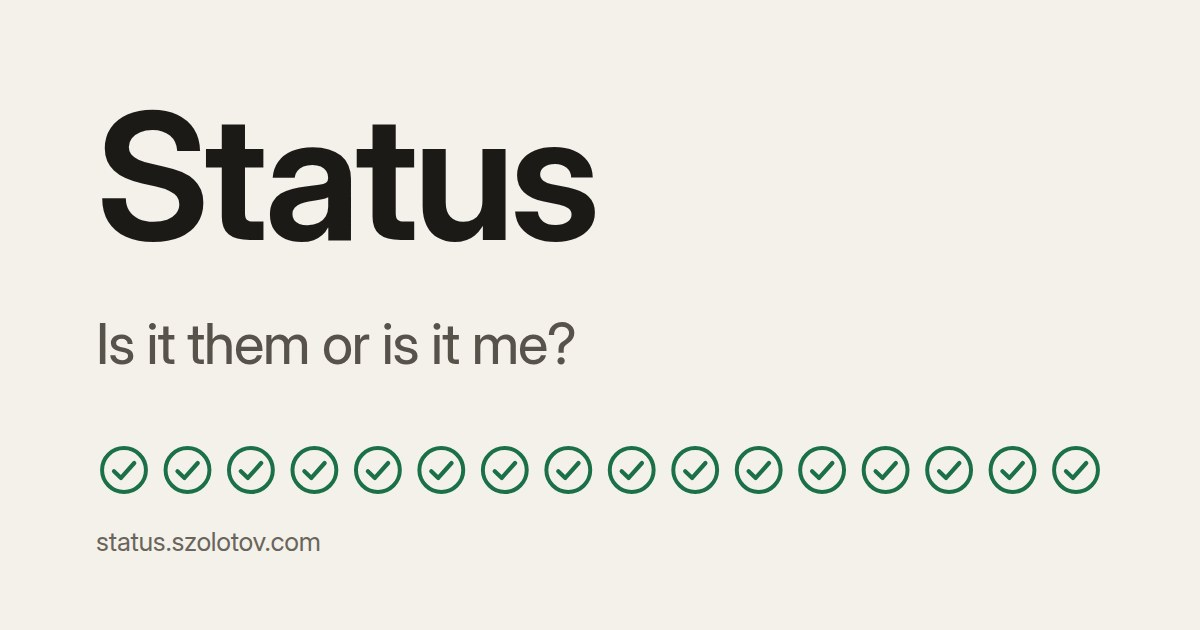
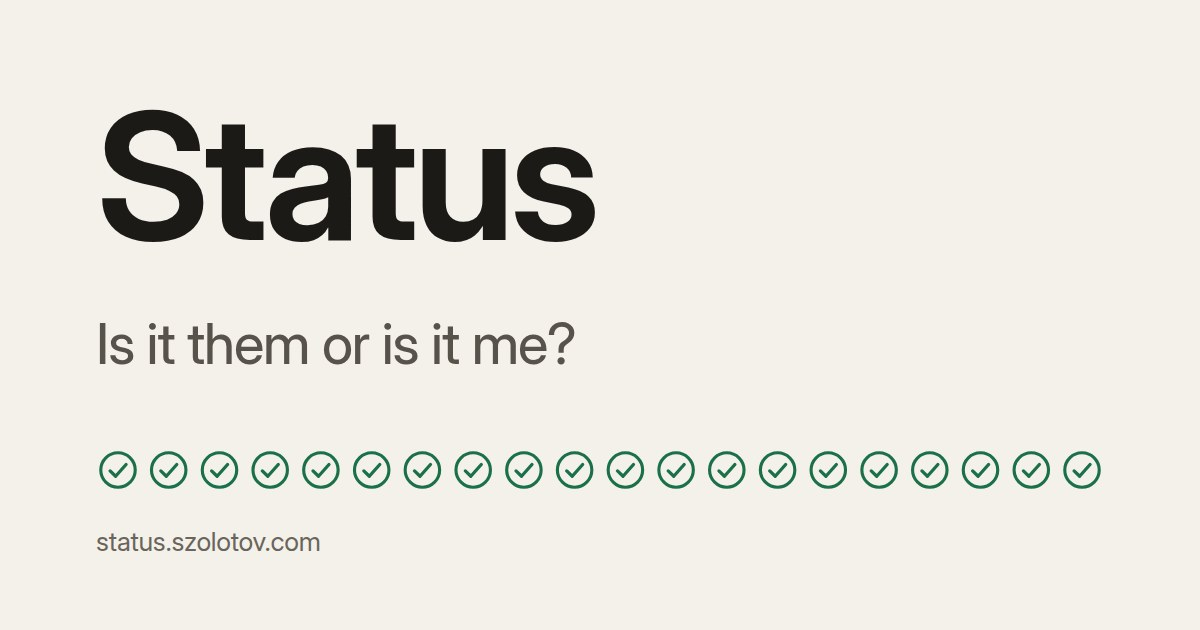
docs: list the four new sources and update the service counts

Changed region(s): [[0.0617, 0.6937, 0.925, 0.7841]]

diff --git a/docs/og-image.html b/docs/og-image.html
@@ -1,7 +1,7 @@
 <!doctype html>
 <!--
   Source for public/og.jpg, the 1200x630 link-preview image.
-  Paper, the name, one question, and the sixteen services as sixteen outline
+  Paper, the name, one question, and the twenty services as twenty outline
   marks. No live status, so a preview never shows a stale outage. Colours, the
   type and the mark come from src/styles.css and public/favicon.svg. The pen is
   not used here: the page keeps it for the count, an outage and "all quiet".
@@ -69,7 +69,7 @@
   </svg>
   <h1>Status</h1>
   <p class="question">Is it them or is it me?</p>
-  <svg class="marks" viewBox="0 0 1008 56" aria-hidden="true"><use href="#ok" x="0.0" width="56" height="56"/><use href="#ok" x="63.5" width="56" height="56"/><use href="#ok" x="126.9" width="56" height="56"/><use href="#ok" x="190.4" width="56" height="56"/><use href="#ok" x="253.9" width="56" height="56"/><use href="#ok" x="317.3" width="56" height="56"/><use href="#ok" x="380.8" width="56" height="56"/><use href="#ok" x="444.3" width="56" height="56"/><use href="#ok" x="507.7" width="56" height="56"/><use href="#ok" x="571.2" width="56" height="56"/><use href="#ok" x="634.7" width="56" height="56"/><use href="#ok" x="698.1" width="56" height="56"/><use href="#ok" x="761.6" width="56" height="56"/><use href="#ok" x="825.1" width="56" height="56"/><use href="#ok" x="888.5" width="56" height="56"/><use href="#ok" x="952.0" width="56" height="56"/></svg>
+  <svg class="marks" viewBox="0 0 1008 56" aria-hidden="true"><use href="#ok" x="0.0" y="6" width="44" height="44"/><use href="#ok" x="50.7" y="6" width="44" height="44"/><use href="#ok" x="101.5" y="6" width="44" height="44"/><use href="#ok" x="152.2" y="6" width="44" height="44"/><use href="#ok" x="202.9" y="6" width="44" height="44"/><use href="#ok" x="253.7" y="6" width="44" height="44"/><use href="#ok" x="304.4" y="6" width="44" height="44"/><use href="#ok" x="355.2" y="6" width="44" height="44"/><use href="#ok" x="405.9" y="6" width="44" height="44"/><use href="#ok" x="456.6" y="6" width="44" height="44"/><use href="#ok" x="507.4" y="6" width="44" height="44"/><use href="#ok" x="558.1" y="6" width="44" height="44"/><use href="#ok" x="608.8" y="6" width="44" height="44"/><use href="#ok" x="659.6" y="6" width="44" height="44"/><use href="#ok" x="710.3" y="6" width="44" height="44"/><use href="#ok" x="761.1" y="6" width="44" height="44"/><use href="#ok" x="811.8" y="6" width="44" height="44"/><use href="#ok" x="862.5" y="6" width="44" height="44"/><use href="#ok" x="913.3" y="6" width="44" height="44"/><use href="#ok" x="964.0" y="6" width="44" height="44"/></svg>
   <p class="site">status.szolotov.com</p>
 </body>
 </html>

diff --git a/README.md b/README.md
@@ -43,7 +43,7 @@ When something breaks, the answer is spread across a dozen vendor dashboards, ea
 
 | | |
 | --- | --- |
-| **One board, five states** | Sixteen services in five groups, each mapped onto Operational, Maintenance, Degraded, Outage or No data, with the reason on the card |
+| **One board, five states** | Twenty services in five groups, each mapped onto Operational, Maintenance, Degraded, Outage or No data, with the reason on the card |
 | **Built for a glance** | Filters, search and stars that live in the address, a log of what changed, browser alerts, and a countdown to the next refresh |
 | **Keyboard and screen reader first** | Single-key shortcuts you can switch off, a skip link, announced results and focus rings that survive high-contrast modes. Checked against WCAG 2.2 AA in CI with axe |
 | **At home on Apple devices** | Warm paper in light and true black in dark as your system is set, opaque panels with a hairline, the system typeface on Apple devices, and colour kept to small exact points. Pick **Glass** or **Full** in Settings for frosted panels over a still glow, or the slow drift, glass lenses over the glow, a light that wanders across the cards and a dial that ticks through each two-minute check. Fits the notch and home indicator, adds to the Home Screen, follows Increase Contrast and Reduce Motion, and can let the light follow how you tilt the device. Tested in Safari's engine on a Mac, an iPhone and an iPad |
@@ -54,12 +54,13 @@ When something breaks, the answer is spread across a dozen vendor dashboards, ea
 
 🟢 Operational · 🔧 Maintenance · 🟡 Degraded · 🔴 Outage · ❔ No data
 
-Sixteen services, each read from one official source. This table is the contract: if a source is not listed here, Status Page does not read it.
+Twenty services, each read from one official source. This table is the contract: if a source is not listed here, Status Page does not read it.
 
 | Group | Service | Official source |
 | --- | --- | --- |
 | Cloud | Google Cloud | [status.cloud.google.com](https://status.cloud.google.com/) (`incidents.json` and `products.json`) |
 | Cloud | AWS | [AWS Health Dashboard](https://health.aws.amazon.com/health/status) |
+| Cloud | Microsoft Azure | [Azure status](https://azure.status.microsoft/en-us/status/) (the RSS feed Microsoft documents at `/en-us/status/feed/`) |
 | Gaming | Steam | [Steam Web API](https://api.steampowered.com/) (including its connection-manager directory) and Store |
 | Gaming | CS2 Europe | Valve SDR config for app `730`, plus the live player count |
 | Gaming | Epic Games | [status.epicgames.com](https://status.epicgames.com/) |
@@ -67,6 +68,9 @@ Sixteen services, each read from one official source. This table is the contract
 | Platforms | Spotify | [spotify.statuspage.io](https://spotify.statuspage.io/) |
 | Platforms | Apple | [Apple System Status](https://www.apple.com/support/systemstatus/) |
 | Platforms | Android / Google Play | [Play Status](https://status.play.google.com/summary) (`incidents.json` and `products.json`) |
+| Platforms | GitHub | [githubstatus.com](https://www.githubstatus.com/) |
+| Platforms | GitLab | [status.gitlab.com](https://status.gitlab.com/) (GitLab.com) |
+| Platforms | Atlassian Confluence | [confluence.status.atlassian.com](https://confluence.status.atlassian.com/) (Confluence Cloud) |
 | AI | Grok | [status.x.ai](https://status.x.ai/) (RSS feed, plus its component list when readable) |
 | AI | ChatGPT | [status.openai.com](https://status.openai.com/) |
 | AI | Claude | [status.claude.com](https://status.claude.com/) |
@@ -89,7 +93,7 @@ Each vendor speaks its own dialect. Status Page translates all of them into five
 | 🔴 Outage | Major or critical impact |
 | ❔ No data | The source timed out, returned an error, or sent data Status Page could not read. Says nothing about whether the vendor is up. The API and the badges still call it `unknown` |
 
-The headline at the top of the page is one sentence about the board: **Everything is up.** when all sixteen are Operational, "Two things need a look." when an outage, a degradation or maintenance is under way (each service named and linked to its card), and **Nothing needs a look.** when the only trouble is sources that could not be read. Those (No data) are listed apart and are never counted as things that need a look.
+The headline at the top of the page is one sentence about the board: **Everything is up.** when all twenty are Operational, "Two things need a look." when an outage, a degradation or maintenance is under way (each service named and linked to its card), and **Nothing needs a look.** when the only trouble is sources that could not be read. Those (No data) are listed apart and are never counted as things that need a look.
 
 The four Releases services track releases, not incidents. Their rows carry no status while nothing is new, and a **New release** tag when a channel, OS or Windows version was released in the last 14 days (the Android page gives no dates, so that card never carries the tag; see below). A source that could not be read is listed under **Couldn't read** as No data, like any other. In the summary, the API and the badges they still count as Operational.
 
@@ -106,7 +110,8 @@ The four Releases services track releases, not incidents. Their rows carry no st
 | CS2 Europe | European relay points of presence. Outage when the relay config reports failure or lists no European points. Degraded when fewer than 3, or fewer than 40%, of them publish relays. An Operational card shows the player count when it is available; the count never affects health |
 | Epic Games | Statuspage summary, worst component, excluding Fortnite components |
 | Fortnite | Same page, only components whose name contains "Fortnite" |
-| Spotify, ChatGPT, Claude | Statuspage summary indicator |
+| Spotify, ChatGPT, Claude, GitHub, GitLab, Confluence | Statuspage summary indicator, with the page's components, active incidents and maintenance (in progress or upcoming). A body without a `status` reads Unknown |
+| Microsoft Azure | RSS `feed/`, which has no status field, so an item is read from its words. An item counts when it is not resolved and was published within the last 14 days; "resolved", "mitigated", "restored" and a post incident review end it. An outage word ("outage", "unavailable", "down") is Outage, "maintenance" is Maintenance, and anything else still listed is Degraded. A channel with no items is Operational; a body that is not an RSS channel reads Unknown. There is no component list |
 | Apple | `system_status_en_US.js`, services with an active event |
 | Android / Google Play | Play `incidents.json`; only incidents without an end time count. The components come from the dashboard's `products.json` the same way as Google Cloud's, when it is published |
 | Grok | RSS `feed.xml`. An item counts when it is not resolved and was published within the last 14 days. Components: the status page's `v2/components.json` is attempted, but it may not exist or may be blocked (its JSON sits behind Cloudflare's challenge), and a list whose statuses are all unreadable is ignored, so the card falls back to the services that active items' titles lead with (`[API] Elevated error rates`, `[Grok (iOS)] Models outage`); they add detail and never change the card's health, so a component row from the vendor's list can read worse than the card's badge, which follows the feed |
@@ -121,7 +126,7 @@ The four Releases services track releases, not incidents. Their rows carry no st
 
 ```mermaid
 flowchart TB
-  vendors["16 official vendor sources"]
+  vendors["20 official vendor sources"]
   node["Node request and in-memory cache"]
   worker["Worker request and per-isolate cache"]
   browser["Browser refreshes every two minutes"]
@@ -145,7 +150,7 @@ npm ci
 npm run dev
 ```
 
-Open the local URL that Vite prints. The first load reads all sixteen sources, which can take a few seconds.
+Open the local URL that Vite prints. The first load reads all twenty sources, which can take a few seconds.
 
 No Node on the machine? Docker is enough: `docker compose up preview` builds the board and serves it on http://127.0.0.1:4173.
 
@@ -227,7 +232,7 @@ Use a service id, or `board` for the whole board:
 ![Status Page](https://img.shields.io/endpoint?url=https://<your-host>/api/badge/board)
 ```
 
-Service ids: `gcp`, `aws`, `steam`, `cs2-europe`, `epic`, `fortnite`, `spotify`, `apple`, `android`, `grok`, `chatgpt`, `claude`, `mikrotik`, `apple-os`, `windows`, `android-os`. An unknown id returns a grey "unknown service" badge instead of an error. Shields.io fetches the badge from your host, so badges need a public deployment.
+Service ids: `gcp`, `aws`, `azure`, `steam`, `cs2-europe`, `epic`, `fortnite`, `spotify`, `apple`, `android`, `github`, `gitlab`, `confluence`, `grok`, `chatgpt`, `claude`, `mikrotik`, `apple-os`, `windows`, `android-os`. An unknown id returns a grey "unknown service" badge instead of an error. Shields.io fetches the badge from your host, so badges need a public deployment.
 
 </details>
 
@@ -471,7 +476,7 @@ Report vulnerabilities privately, as described in [SECURITY.md](SECURITY.md). Pl
 
 ## Disclaimer and license
 
-Status Page is not affiliated with Google, Amazon, Valve, Epic Games, Spotify, Apple, Microsoft, MikroTik, xAI, OpenAI, or Anthropic. Names and marks belong to their owners.
+Status Page is not affiliated with Google, Amazon, Valve, Epic Games, Spotify, Apple, Microsoft, GitHub, GitLab, Atlassian, MikroTik, xAI, OpenAI, or Anthropic. Names and marks belong to their owners.
 
 Released under the MIT License. See [LICENSE](LICENSE).
 

diff --git a/CHANGELOG.md b/CHANGELOG.md
@@ -8,6 +8,7 @@ Each release's section becomes its GitHub Release notes, so write entries for so
 
 ### Added
 
+- Cards for **Microsoft Azure** (under Cloud), and **GitHub**, **GitLab** and **Atlassian Confluence** (under Platforms), each read from the vendor's own status page or feed. The board now has twenty services.
 - An **Android releases** card under Releases. I read Google's Android releases page and list the four newest versions (today Android 17, 16, 15 and 14), newest first. When Google adds the next one, it appears on its own, and a browser that already had the board sees "Android 18 released" in **Recent changes** (and gets an alert if alerts are on). The page gives no release dates, so the card never says "New release" (a first-time visitor sees only the list), and the quarterly platform releases are not listed because the page links only their betas. Google publishes no feed for this, so it is the second source read as HTML.
 - A **Windows 11** card under Releases. I read the versions table on Microsoft's release health page and show the four newest versions with their latest build, and "New release" when a new version became available in the last 14 days. When Microsoft adds the next version, it appears on its own. Microsoft publishes no feed for this, so it is one of two sources read as HTML.
 - A new look, quieter and more like a page than a dashboard. The top of the board is one sentence that says what needs a look, with the services it names linked to their cards, a pen line under the count and a loop around anything down; when all sixteen are up it says "Everything is up." and writes "all quiet" by hand. Below it, what needs a look is a card each, what could not be read has its own short list, and everything healthy is a compact row in a list per category.
